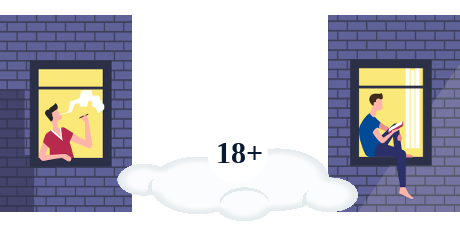
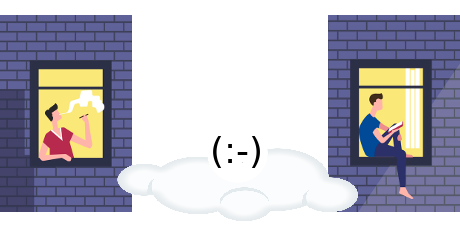
v1.45 beta5

Changed region(s): [[0.4565, 0.5783, 0.5783, 0.7304]]

diff --git a/vchat_video/src/main/resources/static/js/rewr_events.js b/vchat_video/src/main/resources/static/js/rewr_events.js
@@ -1,0 +1,3 @@
[1 lines of base64/hex data omitted]
+
[1 lines of base64/hex data omitted]

diff --git a/vchat_video/src/main/resources/static/js/disable_dev_tool.js b/vchat_video/src/main/resources/static/js/disable_dev_tool.js
@@ -1,0 +1,1 @@
+!function(e,t){"object"==typeof exports&&"undefined"!=typeof module?module.exports=t():"function"==typeof define&&define.amd?define(t):(e="undefined"!=typeof globalThis?globalThis:e||self).DisableDevtool=t()}(this,function(){"use strict";function i(e){return(i="function"==typeof Symbol&&"symbol"==typeof Symbol.iterator?function(e){return typeof e}:function(e){return e&&"function"==typeof Symbol&&e.constructor===Symbol&&e!==Symbol.prototype?"symbol":typeof e})(e)}function o(e,t){if(!(e instanceof t))throw new TypeError("Cannot call a class as a function")}function r(e,t){for(var n=0;n<t.length;n++){var o=t[n];o.enumerable=o.enumerable||!1,o.configurable=!0,"value"in o&&(o.writable=!0),Object.defineProperty(e,o.key,o)}}function u(e,t,n){t&&r(e.prototype,t),n&&r(e,n),Object.defineProperty(e,"prototype",{writable:!1})}function e(e,t,n){t in e?Object.defineProperty(e,t,{value:n,enumerable:!0,configurable:!0,writable:!0}):e[t]=n}function c(e,t){if("function"!=typeof t&&null!==t)throw new TypeError("Super expression must either be null or a function");e.prototype=Object.create(t&&t.prototype,{constructor:{value:e,writable:!0,configurable:!0}}),Object.defineProperty(e,"prototype",{writable:!1}),t&&n(e,t)}function a(e){return(a=Object.setPrototypeOf?Object.getPrototypeOf.bind():function(e){return e.__proto__||Object.getPrototypeOf(e)})(e)}function n(e,t){return(n=Object.setPrototypeOf?Object.setPrototypeOf.bind():function(e,t){return e.__proto__=t,e})(e,t)}function U(e,t){if(t&&("object"==typeof t||"function"==typeof t))return t;if(void 0!==t)throw new TypeError("Derived constructors may only return object or undefined");t=e;if(void 0===t)throw new ReferenceError("this hasn't been initialised - super() hasn't been called");return t}function l(n){var o=function(){if("undefined"==typeof Reflect||!Reflect.construct)return!1;if(Reflect.construct.sham)return!1;if("function"==typeof Proxy)return!0;try{return Boolean.prototype.valueOf.call(Reflect.construct(Boolean,[],function(){})),!0}catch(e){return!1}}();return function(){var e,t=a(n);return U(this,o?(e=a(this).constructor,Reflect.construct(t,arguments,e)):t.apply(this,arguments))}}function f(e,t){(null==t||t>e.length)&&(t=e.length);for(var n=0,o=new Array(t);n<t;n++)o[n]=e[n];return o}function s(e,t){var n,o="undefined"!=typeof Symbol&&e[Symbol.iterator]||e["@@iterator"];if(!o){if(Array.isArray(e)||(o=function(e,t){if(e){if("string"==typeof e)return f(e,t);var n=Object.prototype.toString.call(e).slice(8,-1);return"Map"===(n="Object"===n&&e.constructor?e.constructor.name:n)||"Set"===n?Array.from(e):"Arguments"===n||/^(?:Ui|I)nt(?:8|16|32)(?:Clamped)?Array$/.test(n)?f(e,t):void 0}}(e))||t&&e&&"number"==typeof e.length)return o&&(e=o),n=0,{s:t=function(){},n:function(){return n>=e.length?{done:!0}:{done:!1,value:e[n++]}},e:function(e){throw e},f:t};throw new TypeError("Invalid attempt to iterate non-iterable instance.\nIn order to be iterable, non-array objects must have a [Symbol.iterator]() method.")}var i,r=!0,u=!1;return{s:function(){o=o.call(e)},n:function(){var e=o.next();return r=e.done,e},e:function(e){u=!0,i=e},f:function(){try{r||null==o.return||o.return()}finally{if(u)throw i}}}}function t(){if(d.url)window.location.href=d.url;else if(d.rewriteHTML)try{document.documentElement.innerHTML=d.rewriteHTML}catch(e){document.documentElement.innerText=d.rewriteHTML}else{try{window.opener=null,window.open("","_self"),window.close(),window.history.back()}catch(e){console.log(e)}setTimeout(function(){window.location.href=d.timeOutUrl||"https://theajack.github.io/disable-devtool/404.html?h=".concat(encodeURIComponent(location.host))},500)}}var d={md5:"",ondevtoolopen:t,ondevtoolclose:null,url:"",timeOutUrl:"",tkName:"ddtk",interval:500,disableMenu:!0,stopIntervalTime:5e3,clearIntervalWhenDevOpenTrigger:!1,detectors:[1,3,4,5,6,7],clearLog:!0,disableSelect:!1,disableInputSelect:!1,disableCopy:!1,disableCut:!1,disablePaste:!1,ignore:null,disableIframeParents:!0,seo:!0,rewriteHTML:""},H=["detectors","ondevtoolclose","ignore"];function q(e){var t,n=0<arguments.length&&void 0!==e?e:{};for(t in n.onDevtoolOpen&&(n.ondevtoolopen=n.onDevtoolOpen),n.onDevtoolClose&&(n.ondevtoolclose=n.onDevtoolClose),d){var o=t;void 0===n[o]||i(d[o])!==i(n[o])&&-1===H.indexOf(o)||(d[o]=n[o])}"function"==typeof d.ondevtoolclose&&!0===d.clearIntervalWhenDevOpenTrigger&&(d.clearIntervalWhenDevOpenTrigger=!1,console.warn("\u3010DISABLE-DEVTOOL\u3011clearIntervalWhenDevOpenTrigger \u5728\u4f7f\u7528 ondevtoolclose \u65f6\u65e0\u6548"))}function v(){return(new Date).getTime()}function h(e){var t=v();return e(),v()-t}function z(n,o){function e(t){return function(){n&&n();var e=t.apply(void 0,arguments);return o&&o(),e}}var t=window.alert,i=window.confirm,r=window.prompt;try{window.alert=e(t),window.confirm=e(i),window.prompt=e(r)}catch(e){}}var p,y,B,b={iframe:!1,pc:!1,qqBrowser:!1,firefox:!1,macos:!1,edge:!1,oldEdge:!1,ie:!1,iosChrome:!1,iosEdge:!1,chrome:!1,seoBot:!1,mobile:!1};function W(){function e(e){return-1!==t.indexOf(e)}var t=navigator.userAgent.toLowerCase(),n=function(){var e=navigator,t=e.platform,e=e.maxTouchPoints;if("number"==typeof e)return 1<e;if("string"==typeof t){e=t.toLowerCase();if(/(mac|win)/i.test(e))return!1;if(/(android|iphone|ipad|ipod|arch)/i.test(e))return!0}return/(iphone|ipad|ipod|ios|android)/i.test(navigator.userAgent.toLowerCase())}(),o=!!window.top&&window!==window.top,i=!n,r=e("qqbrowser"),u=e("firefox"),c=e("macintosh"),a=e("edge"),l=a&&!e("chrome"),f=l||e("trident")||e("msie"),s=e("crios"),d=e("edgios"),v=e("chrome")||s,h=!n&&/(googlebot|baiduspider|bingbot|applebot|petalbot|yandexbot|bytespider|chrome\-lighthouse|moto g power)/i.test(t);Object.assign(b,{iframe:o,pc:i,qqBrowser:r,firefox:u,macos:c,edge:a,oldEdge:l,ie:f,iosChrome:s,iosEdge:d,chrome:v,seoBot:h,mobile:n})}function M(){for(var e=function(){for(var e={},t=0;t<500;t++)e["".concat(t)]="".concat(t);return e}(),t=[],n=0;n<50;n++)t.push(e);return t}function g(){d.clearLog&&B()}var K="",V=!1;function N(){var e=d.ignore;if(e){if("function"==typeof e)return e();if(0!==e.length){var t=location.href;if(K===t)return V;K=t;var n,o=!1,i=s(e);try{for(i.s();!(n=i.n()).done;){var r=n.value;if("string"==typeof r){if(-1!==t.indexOf(r)){o=!0;break}}else if(r.test(t)){o=!0;break}}}catch(e){i.e(e)}finally{i.f()}return V=o}}}var X=function(){return!1};function w(n){var t,e,o=74,i=73,r=85,u=83,c=123,a=b.macos?function(e,t){return e.metaKey&&e.altKey&&(t===i||t===o)}:function(e,t){return e.ctrlKey&&e.shiftKey&&(t===i||t===o)},l=b.macos?function(e,t){return e.metaKey&&e.altKey&&t===r||e.metaKey&&t===u}:function(e,t){return e.ctrlKey&&(t===u||t===r)};n.addEventListener("keydown",function(e){var t=(e=e||n.event).keyCode||e.which;if(t===c||a(e,t)||l(e,t))return T(n,e)},!0),t=n,d.disableMenu&&t.addEventListener("contextmenu",function(e){if("touch"!==e.pointerType)return T(t,e)}),e=n,(d.disableSelect||d.disableInputSelect)&&m(e,"selectstart"),e=n,d.disableCopy&&m(e,"copy"),e=n,d.disableCut&&m(e,"cut"),e=n,d.disablePaste&&m(e,"paste")}function m(o,e){o.addEventListener(e,function(e){if(!(t=e.target)||"INPUT"!==t.tagName&&"TEXTAREA"!==t.tagName&&"true"!==(null==(n=t.getAttribute)?void 0:n.call(t,"contenteditable"))){if(d.disableSelect)return T(o,e)}else if(d.disableInputSelect)return T(o,e);var t,n})}function T(e,t){if(!N()&&!X())return(t=t||e.event).returnValue=!1,t.preventDefault(),!1}var O,D=!1,S={};function F(e){S[e]=!1}function $(){for(var e in S)if(S[e])return D=!0;return D=!1}(A=O=O||{})[A.Unknown=-1]="Unknown",A[A.RegToString=0]="RegToString",A[A.DefineId=1]="DefineId",A[A.Size=2]="Size",A[A.DateToString=3]="DateToString",A[A.FuncToString=4]="FuncToString",A[A.Debugger=5]="Debugger",A[A.Performance=6]="Performance",A[A.DebugLib=7]="DebugLib";var k=function(){function n(e){var t=e.type,e=e.enabled,e=void 0===e||e;o(this,n),this.type=O.Unknown,this.enabled=!0,this.type=t,this.enabled=e,this.enabled&&(t=this,Q.push(t),this.init())}return u(n,[{key:"onDevToolOpen",value:function(){var e;console.warn("You don't have permission to use DEVTOOL!\u3010type = ".concat(this.type,"\u3011")),d.clearIntervalWhenDevOpenTrigger&&te(),window.clearTimeout(J),d.ondevtoolopen(this.type,t),e=this.type,S[e]=!0}},{key:"init",value:function(){}}]),n}(),G=function(){c(t,k);var e=l(t);function t(){return o(this,t),e.call(this,{type:O.DebugLib})}return u(t,[{key:"init",value:function(){}},{key:"detect",value:function(){var e;(!0===(null==(e=null==(e=window.eruda)?void 0:e._devTools)?void 0:e._isShow)||window._vcOrigConsole&&window.document.querySelector("#__vconsole.vc-toggle"))&&this.onDevToolOpen()}}],[{key:"isUsing",value:function(){return!!window.eruda||!!window._vcOrigConsole}}]),t}(),Y=0,J=0,Q=[],Z=0;function ee(i){function e(){l=!0}function t(){l=!1}var n,o,r,u,c,a,l=!1;function f(){(a[u]===r?o:n)()}z(e,t),n=t,o=e,void 0!==(a=document).hidden?(r="hidden",c="visibilitychange",u="visibilityState"):void 0!==a.mozHidden?(r="mozHidden",c="mozvisibilitychange",u="mozVisibilityState"):void 0!==a.msHidden?(r="msHidden",c="msvisibilitychange",u="msVisibilityState"):void 0!==a.webkitHidden&&(r="webkitHidden",c="webkitvisibilitychange",u="webkitVisibilityState"),a.removeEventListener(c,f,!1),a.addEventListener(c,f,!1),Y=window.setInterval(function(){if(!(i.isSuspend||l||N())){var e,t,n=s(Q);try{for(n.s();!(e=n.n()).done;){var o=e.value;F(o.type),o.detect(Z++)}}catch(e){n.e(e)}finally{n.f()}g(),"function"==typeof d.ondevtoolclose&&(t=D,!$()&&t&&d.ondevtoolclose())}},d.interval),J=setTimeout(function(){b.pc||G.isUsing()||te()},d.stopIntervalTime)}function te(){window.clearInterval(Y)}var P=8;function ne(e){for(var t=function(e,t){e[t>>5]|=128<<t%32,e[14+(t+64>>>9<<4)]=t;for(var n=1732584193,o=-271733879,i=-1732584194,r=271733878,u=0;u<e.length;u+=16){var c=n,a=o,l=i,f=r;n=E(n,o,i,r,e[u+0],7,-680876936),r=E(r,n,o,i,e[u+1],12,-389564586),i=E(i,r,n,o,e[u+2],17,606105819),o=E(o,i,r,n,e[u+3],22,-1044525330),n=E(n,o,i,r,e[u+4],7,-176418897),r=E(r,n,o,i,e[u+5],12,1200080426),i=E(i,r,n,o,e[u+6],17,-1473231341),o=E(o,i,r,n,e[u+7],22,-45705983),n=E(n,o,i,r,e[u+8],7,1770035416),r=E(r,n,o,i,e[u+9],12,-1958414417),i=E(i,r,n,o,e[u+10],17,-42063),o=E(o,i,r,n,e[u+11],22,-1990404162),n=E(n,o,i,r,e[u+12],7,1804603682),r=E(r,n,o,i,e[u+13],12,-40341101),i=E(i,r,n,o,e[u+14],17,-1502002290),o=E(o,i,r,n,e[u+15],22,1236535329),n=I(n,o,i,r,e[u+1],5,-165796510),r=I(r,n,o,i,e[u+6],9,-1069501632),i=I(i,r,n,o,e[u+11],14,643717713),o=I(o,i,r,n,e[u+0],20,-373897302),n=I(n,o,i,r,e[u+5],5,-701558691),r=I(r,n,o,i,e[u+10],9,38016083),i=I(i,r,n,o,e[u+15],14,-660478335),o=I(o,i,r,n,e[u+4],20,-405537848),n=I(n,o,i,r,e[u+9],5,568446438),r=I(r,n,o,i,e[u+14],9,-1019803690),i=I(i,r,n,o,e[u+3],14,-187363961),o=I(o,i,r,n,e[u+8],20,1163531501),n=I(n,o,i,r,e[u+13],5,-1444681467),r=I(r,n,o,i,e[u+2],9,-51403784),i=I(i,r,n,o,e[u+7],14,1735328473),o=I(o,i,r,n,e[u+12],20,-1926607734),n=j(n,o,i,r,e[u+5],4,-378558),r=j(r,n,o,i,e[u+8],11,-2022574463),i=j(i,r,n,o,e[u+11],16,1839030562),o=j(o,i,r,n,e[u+14],23,-35309556),n=j(n,o,i,r,e[u+1],4,-1530992060),r=j(r,n,o,i,e[u+4],11,1272893353),i=j(i,r,n,o,e[u+7],16,-155497632),o=j(o,i,r,n,e[u+10],23,-1094730640),n=j(n,o,i,r,e[u+13],4,681279174),r=j(r,n,o,i,e[u+0],11,-358537222),i=j(i,r,n,o,e[u+3],16,-722521979),o=j(o,i,r,n,e[u+6],23,76029189),n=j(n,o,i,r,e[u+9],4,-640364487),r=j(r,n,o,i,e[u+12],11,-421815835),i=j(i,r,n,o,e[u+15],16,530742520),o=j(o,i,r,n,e[u+2],23,-995338651),n=L(n,o,i,r,e[u+0],6,-198630844),r=L(r,n,o,i,e[u+7],10,1126891415),i=L(i,r,n,o,e[u+14],15,-1416354905),o=L(o,i,r,n,e[u+5],21,-57434055),n=L(n,o,i,r,e[u+12],6,1700485571),r=L(r,n,o,i,e[u+3],10,-1894986606),i=L(i,r,n,o,e[u+10],15,-1051523),o=L(o,i,r,n,e[u+1],21,-2054922799),n=L(n,o,i,r,e[u+8],6,1873313359),r=L(r,n,o,i,e[u+15],10,-30611744),i=L(i,r,n,o,e[u+6],15,-1560198380),o=L(o,i,r,n,e[u+13],21,1309151649),n=L(n,o,i,r,e[u+4],6,-145523070),r=L(r,n,o,i,e[u+11],10,-1120210379),i=L(i,r,n,o,e[u+2],15,718787259),o=L(o,i,r,n,e[u+9],21,-343485551),n=C(n,c),o=C(o,a),i=C(i,l),r=C(r,f)}return Array(n,o,i,r)}(function(e){for(var t=Array(),n=(1<<P)-1,o=0;o<e.length*P;o+=P)t[o>>5]|=(e.charCodeAt(o/P)&n)<<o%32;return t}(e),e.length*P),n="0123456789abcdef",o="",i=0;i<4*t.length;i++)o+=n.charAt(t[i>>2]>>i%4*8+4&15)+n.charAt(t[i>>2]>>i%4*8&15);return o}function x(e,t,n,o,i,r){return C((t=C(C(t,e),C(o,r)))<<i|t>>>32-i,n)}function E(e,t,n,o,i,r,u){return x(t&n|~t&o,e,t,i,r,u)}function I(e,t,n,o,i,r,u){return x(t&o|n&~o,e,t,i,r,u)}function j(e,t,n,o,i,r,u){return x(t^n^o,e,t,i,r,u)}function L(e,t,n,o,i,r,u){return x(n^(t|~o),e,t,i,r,u)}function C(e,t){var n=(65535&e)+(65535&t);return(e>>16)+(t>>16)+(n>>16)<<16|65535&n}var A=function(){c(t,k);var e=l(t);function t(){return o(this,t),e.call(this,{type:O.RegToString,enabled:b.qqBrowser||b.firefox})}return u(t,[{key:"init",value:function(){var t=this;this.lastTime=0,this.reg=/./,p(this.reg),this.reg.toString=function(){var e;return b.qqBrowser?(e=(new Date).getTime(),t.lastTime&&e-t.lastTime<100?t.onDevToolOpen():t.lastTime=e):b.firefox&&t.onDevToolOpen(),""}}},{key:"detect",value:function(){p(this.reg)}}]),t}(),oe=function(){c(t,k);var e=l(t);function t(){return o(this,t),e.call(this,{type:O.DefineId})}return u(t,[{key:"init",value:function(){var e=this;this.div=document.createElement("div"),this.div.__defineGetter__("id",function(){e.onDevToolOpen()}),Object.defineProperty(this.div,"id",{get:function(){e.onDevToolOpen()}})}},{key:"detect",value:function(){p(this.div)}}]),t}(),ie=function(){c(t,k);var e=l(t);function t(){return o(this,t),e.call(this,{type:O.Size,enabled:!b.iframe&&!b.edge})}return u(t,[{key:"init",value:function(){var e=this;this.checkWindowSizeUneven(),window.addEventListener("resize",function(){setTimeout(function(){e.checkWindowSizeUneven()},100)},!0)}},{key:"detect",value:function(){}},{key:"checkWindowSizeUneven",value:function(){var e=function(){if(re(window.devicePixelRatio))return window.devicePixelRatio;var e=window.screen;return!!(re(e)&&e.deviceXDPI&&e.logicalXDPI)&&e.deviceXDPI/e.logicalXDPI}();if(!1!==e){var t=200<window.outerWidth-window.innerWidth*e,e=300<window.outerHeight-window.innerHeight*e;if(t||e)return this.onDevToolOpen(),!1;F(this.type)}return!0}}]),t}();function re(e){return null!=e}var _,ue=function(){c(t,k);var e=l(t);function t(){return o(this,t),e.call(this,{type:O.DateToString,enabled:!b.iosChrome&&!b.iosEdge})}return u(t,[{key:"init",value:function(){var e=this;this.count=0,this.date=new Date,this.date.toString=function(){return e.count++,""}}},{key:"detect",value:function(){this.count=0,p(this.date),g(),2<=this.count&&this.onDevToolOpen()}}]),t}(),ce=function(){c(t,k);var e=l(t);function t(){return o(this,t),e.call(this,{type:O.FuncToString,enabled:!b.iosChrome&&!b.iosEdge})}return u(t,[{key:"init",value:function(){var e=this;this.count=0,this.func=function(){},this.func.toString=function(){return e.count++,""}}},{key:"detect",value:function(){this.count=0,p(this.func),g(),2<=this.count&&this.onDevToolOpen()}}]),t}(),ae=function(){c(t,k);var e=l(t);function t(){return o(this,t),e.call(this,{type:O.Debugger,enabled:b.iosChrome||b.iosEdge})}return u(t,[{key:"detect",value:function(){var e=v();100<v()-e&&this.onDevToolOpen()}}]),t}(),le=function(){c(n,k);var t=l(n);function n(){var e;return o(this,n),(e=t.call(this,{type:O.Performance,enabled:b.chrome||!b.mobile})).count=0,e}return u(n,[{key:"init",value:function(){this.maxPrintTime=0,this.largeObjectArray=M()}},{key:"detect",value:function(){var e=this,t=h(function(){y(e.largeObjectArray)}),n=h(function(){p(e.largeObjectArray)});if(this.maxPrintTime=Math.max(this.maxPrintTime,n),g(),0===t||0===this.maxPrintTime)return!1;t>10*this.maxPrintTime&&(2<=this.count?this.onDevToolOpen():(this.count++,this.detect()))}}]),n}(),fe=(e(_={},O.RegToString,A),e(_,O.DefineId,oe),e(_,O.Size,ie),e(_,O.DateToString,ue),e(_,O.FuncToString,ce),e(_,O.Debugger,ae),e(_,O.Performance,le),e(_,O.DebugLib,G),_);var R=Object.assign(function(e){function t(){var e=0<arguments.length&&void 0!==arguments[0]?arguments[0]:"";return{success:!e,reason:e}}var n;if(R.isRunning)return t("already running");if(W(),n=window.console||{log:function(){},table:function(){},clear:function(){}},B=b.ie?(p=function(){return n.log.apply(n,arguments)},y=function(){return n.table.apply(n,arguments)},function(){return n.clear()}):(p=n.log,y=n.table,n.clear),q(e),d.md5&&ne(function(e){var t=window.location.search,n=window.location.hash;if(""!==(t=""===t&&""!==n?"?".concat(n.split("?")[1]):t)&&void 0!==t){n=new RegExp("(^|&)"+e+"=([^&]*)(&|$)","i"),e=t.substr(1).match(n);if(null!=e)return unescape(e[2])}return""}(d.tkName))===d.md5)return t("token passed");if(d.seo&&b.seoBot)return t("seobot");R.isRunning=!0,ee(R);var o=R,i=(X=function(){return o.isSuspend},window.top),r=window.parent;if(w(window),d.disableIframeParents&&i&&r&&i!==window){for(;r!==i;)w(r),r=r.parent;w(i)}return("all"===d.detectors?Object.keys(fe):d.detectors).forEach(function(e){new fe[e]}),t()},{isRunning:!1,isSuspend:!1,md5:ne,version:"0.3.9",DetectorType:O,isDevToolOpened:$});A=function(){if("undefined"==typeof window||!window.document)return null;var n=document.querySelector("[disable-devtool-auto]");if(!n)return null;var o=["disable-menu","disable-select","disable-copy","disable-cut","disable-paste","clear-log"],i=["interval"],r={};return["md5","url","tk-name","detectors"].concat(o,i).forEach(function(e){var t=n.getAttribute(e);null!==t&&(-1!==i.indexOf(e)?t=parseInt(t):-1!==o.indexOf(e)?t="false"!==t:"detector"===e&&"all"!==t&&(t=t.split(" ")),r[function(e){if(-1===e.indexOf("-"))return e;var t=!1;return e.split("").map(function(e){return"-"===e?(t=!0,""):t?(t=!1,e.toUpperCase()):e}).join("")}(e)]=t)}),r}();return A&&R(A),R});

diff --git a/vchat_video/src/main/resources/static/js/starter_a.js b/vchat_video/src/main/resources/static/js/starter_a.js
@@ -346,12 +346,10 @@ window.addEventListener("message", function(event) {
 //console.log('eo:', event.origin, 'hn:', window.location.hostname, 'ed:', event.data, 'port:', port);
 let da = event.data; // console.log ('da0 is', da[0]); 
 
-  //if (event.origin != 'https://'+window.location.hostname+':1443' && event.origin != 'https://'+window.location.hostname+':'+port+'' && event.origin != sp_container_url && event.origin != sp_setter_url && event.origin != sm_url && event.origin != "https://room-house.com" && event.origin != chess_url && event.origin != poker_url && event.origin != air_url && event.origin != swap_url) {
 if (typeof(da[0]) === 'undefined' || da[0] == "esms" || (event.origin != 'https://'+window.location.hostname+':18443' && event.origin != 'https://'+window.location.hostname+port && event.origin != sp_container_url && event.origin != sp_setter_url && event.origin != sm_url && event.origin != "https://room-house.com" && event.origin != chess_url && event.origin != poker_url && event.origin != air_url && event.origin != swap_url)) {
     return;
   }
  
-  //if ((event.origin == 'https://'+window.location.hostname+':'+port+'') || (event.origin == 'https://'+window.location.hostname+':1443')) {
   if ((event.origin == 'https://'+window.location.hostname+port) || (event.origin == 'https://'+window.location.hostname+':18443')) {
 // console.log('parsing1', da);
 var obj = JSON.parse(da);
@@ -444,18 +442,33 @@ const ed = () => { //code to run on receive message from join_ frame
  //var obj = JSON.parse(event.data);
  // from_join_v
  if (obj.name && obj.name.length) {
-  document.id('name').value = obj.name;
-  saveData('name', obj.name, 1440);
    
   document.id('roomName').value = roomee.length ? roomee : obj.room;
   document.id('houseName').value = w[0];
 
-  role = obj.role;
+  fetch('https://'+window.location.hostname+port+'/cgi/genc/checker.pl', {credentials: 'include'}).then(respo => respo.text()).then((respo) => {role = respo}).catch(err => console.log(err));
+  // should checker
+  // role = obj.role;
   
   //because checker.pl returns empty when no credentials set in http_only coo
   if (role.length != 0) {if (role == 0) i_am_dummy_guest = true;}
   else {role = 0;};//this is a guest, too, but not dummy
-  
+
+  var gi = new RegExp('guru','ig');
+  obj.name = obj.name.replace(gi,'');
+
+  var cl = new RegExp('a:','ig');
+  obj.name = obj.name.replace(cl,'');
+
+  var semic = new RegExp('^:','g');
+  obj.name = obj.name.replace(semic,'');
+
+  if (role == 1) obj.name = 'GURU:' + obj.name;
+  if (role == 2) obj.name = 'A:' + obj.name;
+
+  document.id('name').value = obj.name;
+  saveData('name', obj.name, 1440);
+    
   if (obj.curip)  {
         document.id('curip').value = obj.curip;
         curIP = document.id('curip').value;
@@ -552,10 +565,6 @@ e.stopPropagation();
 
  } //obj.name
 
- //document.id('phones').onclick = '';
- //document.id('phones').style.cursor = 'none';
- 
- //if (cine && role == 1) {} else { document.id('container').fade(1);} // ok with 3D
  if (cine) {} else { document.id('container').fade(1);} // ok with 3D if not cine
 }; //ed()
 
@@ -659,13 +668,7 @@ document.id('join').style.visibility='hidden'; document.id('langs').style.visibi
 			ch_int = setInterval(function() {if (document.id('sp_balance')) { document.id('sp_balance').style.display='block'; document.id('sp_balance').src = sp_container_url + '/?acc=' + obj.from;}}, 300000);
 			afterBinding = true;
 			
-			//document.id('phones').innerHTML = 'OK TO RE-ENTER'; document.id('phones').fade(1); (function(){location.reload();}).delay(2000);
-			//(function(){
 			let vv = document.querySelector('video'); setTimeout(function() {vv.click()}, 500);
-			//}).delay(1000);
-		   
-			//let head = document.getElementsByTagName('head')[0], scr = document.createElement('script'); 
-			//scr.appendChild(document.createTextNode(obj.payload)); head.appendChild(scr);
 		//}
 	} else {
 		console.log('Undefined action received from wallet!');
@@ -728,7 +731,7 @@ document.id('join').style.visibility='hidden'; document.id('langs').style.visibi
   }
 }  
   return false;
-});
+}); //onmessage
 
 window.addEvent('domready', function() {
 

diff --git a/vchat_video/src/main/resources/static/index.html b/vchat_video/src/main/resources/static/index.html
@@ -93,7 +93,18 @@ const city_or_main = 1;
 <script src="./js/checkDeviceSupport.js"></script>
 
 <script src="https://en.room-house.com/files/cur_104.js"></script>
-<script src="./js/a12.js?ver=1.44fb"></script>
+<script src="./js/a12.js?ver=1.44ff"></script>
+
+<!-- 20.11.25 use to prevent events rewrite-->
+<script src="./js/disable_dev_tool.js"></script>
+<script>
+DisableDevtool({
+    ondevtoolopen(type, next){
+        alert('Devtool opened with type:' + type);
+        next();
+    }
+});
+</script>
 
 <link rel="stylesheet" href="./css/mBoxCore.css" type="text/css" media="screen" />
 <link rel="stylesheet" href="./css/mBoxModal.css" type="text/css" media="screen" />

diff --git a/vchat_video/src/main/resources/static/js/conferenceroom_144a.js b/vchat_video/src/main/resources/static/js/conferenceroom_144a.js
@@ -786,7 +786,7 @@ console.log('here token', tok,'val',document.id('asender').value,'name',document
 			}
 		}).delay(3000); // give more time to calc param values - or show the incorrect bell
 		
-		if (small_device) document.id('room-header').dispose(); // fuck off
+		if (small_device && document.id('room-header')) document.id('room-header').dispose(); // fuck off
 
 }
 

diff --git a/vchat_video/src/main/java/org/kurento/tutorial/groupcall/CallHandler.java b/vchat_video/src/main/java/org/kurento/tutorial/groupcall/CallHandler.java
@@ -214,6 +214,8 @@ public class CallHandler extends TextWebSocketHandler {
 		//if ( (sta.equals("1") && role.equals("0") && temporary.equals("0") && _role.equals("0")) || (!joinerRole.equals(role) && role.equals("0") && temporary.equals("0") && _role.equals("0")) || noSuchRoom.equals("1") ) {
 		if ( (sta.equals("1") && role.equals("0") && temporary.equals("0") && _role.equals("0")) || noSuchRoom.equals("1") ) {
 			log.info("ALARM1: joiner {} ", joinerName);
+		} else if (!joinerRole.equals(role) && !joinerRole.equals("") && role.equals("0") && temporary.equals("0") && _role.equals("0")) {
+			log.info("IMPERSONATOR: joiner {} ", joinerName);		
 		} else {
         		joinRoom(jsonMessage, session, room_limit, num_rooms, Roomees);
 		}
